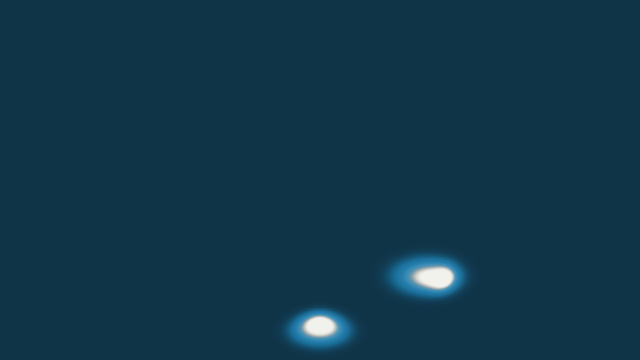
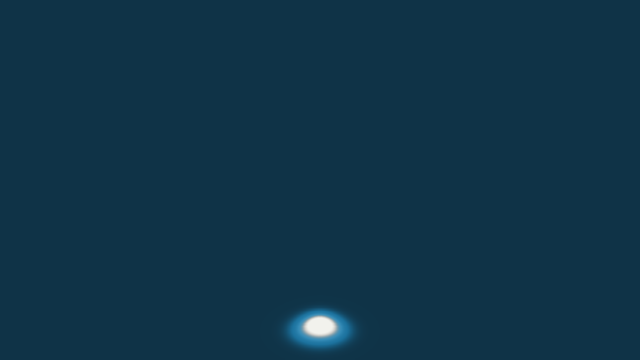
Fix: deliver live audio to physics works via postMessage relay
The works read parent.__vjState.audio, which doesn't cross opaque file:// frames
and was missing entirely from the inline output copy — so Audio on/off had no
effect on the layers. Now the output (both the vj-output.html file and the
control's inline copy) relays each vj-audio message to its layer iframes, and
the works consume it via postMessage with a 300ms freshness timeout (so toggling
Audio off cleanly reverts them to self-drive). Robust on https and file://.

Changed region(s): [[0.5938, 0.7028, 0.75, 0.8556]]

diff --git a/vj/vj-control.html b/vj/vj-control.html
@@ -1387,6 +1387,12 @@
     window.addEventListener("message", (event) => {
       if (!event.data) return;
       if (event.data.type === "vj-state" && event.data.state) applyState(event.data.state);
+      if (event.data.type === "vj-audio" && event.data.a) {
+        if (!window.__vjState) window.__vjState = {};
+        window.__vjState.audio = event.data.a;
+        try { if (layerA.contentWindow) layerA.contentWindow.postMessage(event.data, "*"); } catch (e) {}
+        try { if (layerB.contentWindow) layerB.contentWindow.postMessage(event.data, "*"); } catch (e) {}
+      }
       if (event.data.type === "request-vj-state") {
         if (event.source === layerA.contentWindow) postStateToLayer(layerA);
         if (event.source === layerB.contentWindow) postStateToLayer(layerB);

diff --git a/vj/works/chladni.html b/vj/works/chladni.html
@@ -41,6 +41,8 @@
     function syncStateFromStorage() { if (readStateFromHostWindow()) return; try { const saved = JSON.parse(localStorage.getItem("vj-state") || "null"); if (saved) applyLayer(saved[layerSlot]); } catch (e) {} }
     function applyLayer(next) { if (next) Object.assign(state, next); }
     function hostAudio() { try { const s = (window.parent !== window ? window.parent : window.opener); return s && s.__vjState && s.__vjState.audio ? s.__vjState.audio : null; } catch (e) { return null; } }
+    let lastAudio = null, lastAudioT = 0;
+    function liveAudio() { return (performance.now() - lastAudioT < 300) ? lastAudio : hostAudio(); }
 
     // ---- small dense linear algebra ----
     function cholesky(Mf, n){ const L = new Float64Array(n*n);
@@ -113,7 +115,7 @@
         if(x>1) x=2-x; else if(x<-1) x=-2-x; if(y>1) y=2-y; else if(y<-1) y=-2-y; posv[i*2]=x; posv[i*2+1]=y; } } }
 
     function draw(now){ const t=now*0.001;
-      const au=hostAudio(); const ag=state.audio/100;
+      const au=liveAudio(); const ag=state.audio/100;
       let loud, modeIdx;
       if(au){ const level=Math.min(1,au[0]*ag), bass=au[1], mid=au[2], high=au[3];
         const bright = (mid*0.5 + high) / (bass + mid + high + 0.001);   // spectral brightness ~ pitch
@@ -131,7 +133,7 @@
       requestAnimationFrame(draw);
     }
 
-    window.addEventListener("message", (event) => { if (event.data && event.data.type === "vj-state" && event.data.state) applyLayer(event.data.state[layerSlot]); });
+    window.addEventListener("message", (event) => { if (!event.data) return; if (event.data.type === "vj-state" && event.data.state) applyLayer(event.data.state[layerSlot]); if (event.data.type === "vj-audio" && event.data.a) { lastAudio = event.data.a; lastAudioT = performance.now(); } });
     window.addEventListener("storage", () => { syncStateFromStorage(); });
     function syncStateFromHostWindow() { const h = readStateFromHostWindow(); if (h) applyLayer(h[layerSlot]); }
     window.addEventListener("resize", resize);

diff --git a/vj/works/fluid.html b/vj/works/fluid.html
@@ -42,6 +42,8 @@
     function syncStateFromStorage() { if (readStateFromHostWindow()) return; try { const saved = JSON.parse(localStorage.getItem("vj-state") || "null"); if (saved) applyLayer(saved[layerSlot]); } catch (e) {} }
     function applyLayer(next) { if (next) Object.assign(state, next); }
     function hostAudio() { try { const s = (window.parent !== window ? window.parent : window.opener); return s && s.__vjState && s.__vjState.audio ? s.__vjState.audio : null; } catch (e) { return null; } }
+    let lastAudio = null, lastAudioT = 0;
+    function liveAudio() { return (performance.now() - lastAudioT < 300) ? lastAudio : hostAudio(); }
 
     const canvas = document.getElementById("canvas");
     const gl = canvas.getContext("webgl", { antialias: false, alpha: false });
@@ -85,7 +87,7 @@
 
     function draw() {
       let velP = [vel, vel2], dyeP = [dye, dye2], prsP = [prs, prs2];
-      const au = hostAudio(); const ag = state.audio / 100;
+      const au = liveAudio(); const ag = state.audio / 100;
       const level = au ? Math.min(1, au[0] * ag) : 0, onset = au ? au[4] * ag : 0;
       const F = 0.6 + state.force / 100 * 1.0;
       const emit = 0.16 + level * 0.7;
@@ -110,7 +112,7 @@
       requestAnimationFrame(draw);
     }
 
-    window.addEventListener("message", (event) => { if (event.data && event.data.type === "vj-state" && event.data.state) applyLayer(event.data.state[layerSlot]); });
+    window.addEventListener("message", (event) => { if (!event.data) return; if (event.data.type === "vj-state" && event.data.state) applyLayer(event.data.state[layerSlot]); if (event.data.type === "vj-audio" && event.data.a) { lastAudio = event.data.a; lastAudioT = performance.now(); } });
     window.addEventListener("storage", () => { syncStateFromStorage(); });
     function syncStateFromHostWindow() { const h = readStateFromHostWindow(); if (h) applyLayer(h[layerSlot]); }
     window.addEventListener("resize", resize);

diff --git a/vj/works/reaction.html b/vj/works/reaction.html
@@ -47,6 +47,8 @@
     function applyLayer(next) { if (next) Object.assign(state, next); }
     // live audio from the host's global engine (window.parent.__vjState.audio = [level,bass,mid,high,onset])
     function hostAudio() { try { const s = (window.parent !== window ? window.parent : window.opener); return s && s.__vjState && s.__vjState.audio ? s.__vjState.audio : null; } catch (e) { return null; } }
+    let lastAudio = null, lastAudioT = 0;
+    function liveAudio() { return (performance.now() - lastAudioT < 300) ? lastAudio : hostAudio(); }
 
     const canvas = document.getElementById("canvas");
     const gl = canvas.getContext("webgl", { antialias: false, alpha: false });
@@ -91,7 +93,7 @@
 
     let seedPos = [0.5, 0.5], seedAmt = 0;
     function draw() {
-      const au = hostAudio(); const ag = state.audio / 100;
+      const au = liveAudio(); const ag = state.audio / 100;
       const level = au ? Math.min(1, au[0] * ag) : 0, bass = au ? au[1] * ag : 0, onset = au ? au[4] * ag : 0;
       const feed = 0.030 + state.feed / 100 * 0.030 + bass * 0.012, kill = 0.062;
       const sub = Math.round(5 + state.react / 100 * 8 + level * 6);
@@ -114,7 +116,7 @@
       requestAnimationFrame(draw);
     }
 
-    window.addEventListener("message", (event) => { if (event.data && event.data.type === "vj-state" && event.data.state) applyLayer(event.data.state[layerSlot]); });
+    window.addEventListener("message", (event) => { if (!event.data) return; if (event.data.type === "vj-state" && event.data.state) applyLayer(event.data.state[layerSlot]); if (event.data.type === "vj-audio" && event.data.a) { lastAudio = event.data.a; lastAudioT = performance.now(); } });
     window.addEventListener("storage", () => { syncStateFromStorage(); });
     function syncStateFromHostWindow() { const h = readStateFromHostWindow(); if (h) applyLayer(h[layerSlot]); }
     window.addEventListener("resize", resize);

diff --git a/vj/vj-output.html b/vj/vj-output.html
@@ -232,9 +232,12 @@
         applyState(event.data.state);
       }
       if (event.data.type === "vj-audio" && event.data.a) {
-        // live audio features broadcast from the control; layers read window.__vjState.audio
+        // live audio features from the control; relay to the layer works (postMessage
+        // is robust across same-origin https AND opaque file:// frames)
         if (!window.__vjState) window.__vjState = {};
         window.__vjState.audio = event.data.a;
+        try { if (layerA.contentWindow) layerA.contentWindow.postMessage(event.data, "*"); } catch (e) {}
+        try { if (layerB.contentWindow) layerB.contentWindow.postMessage(event.data, "*"); } catch (e) {}
       }
       if (event.data.type === "request-vj-state") {
         if (event.source === layerA.contentWindow) postStateToLayer(layerA);